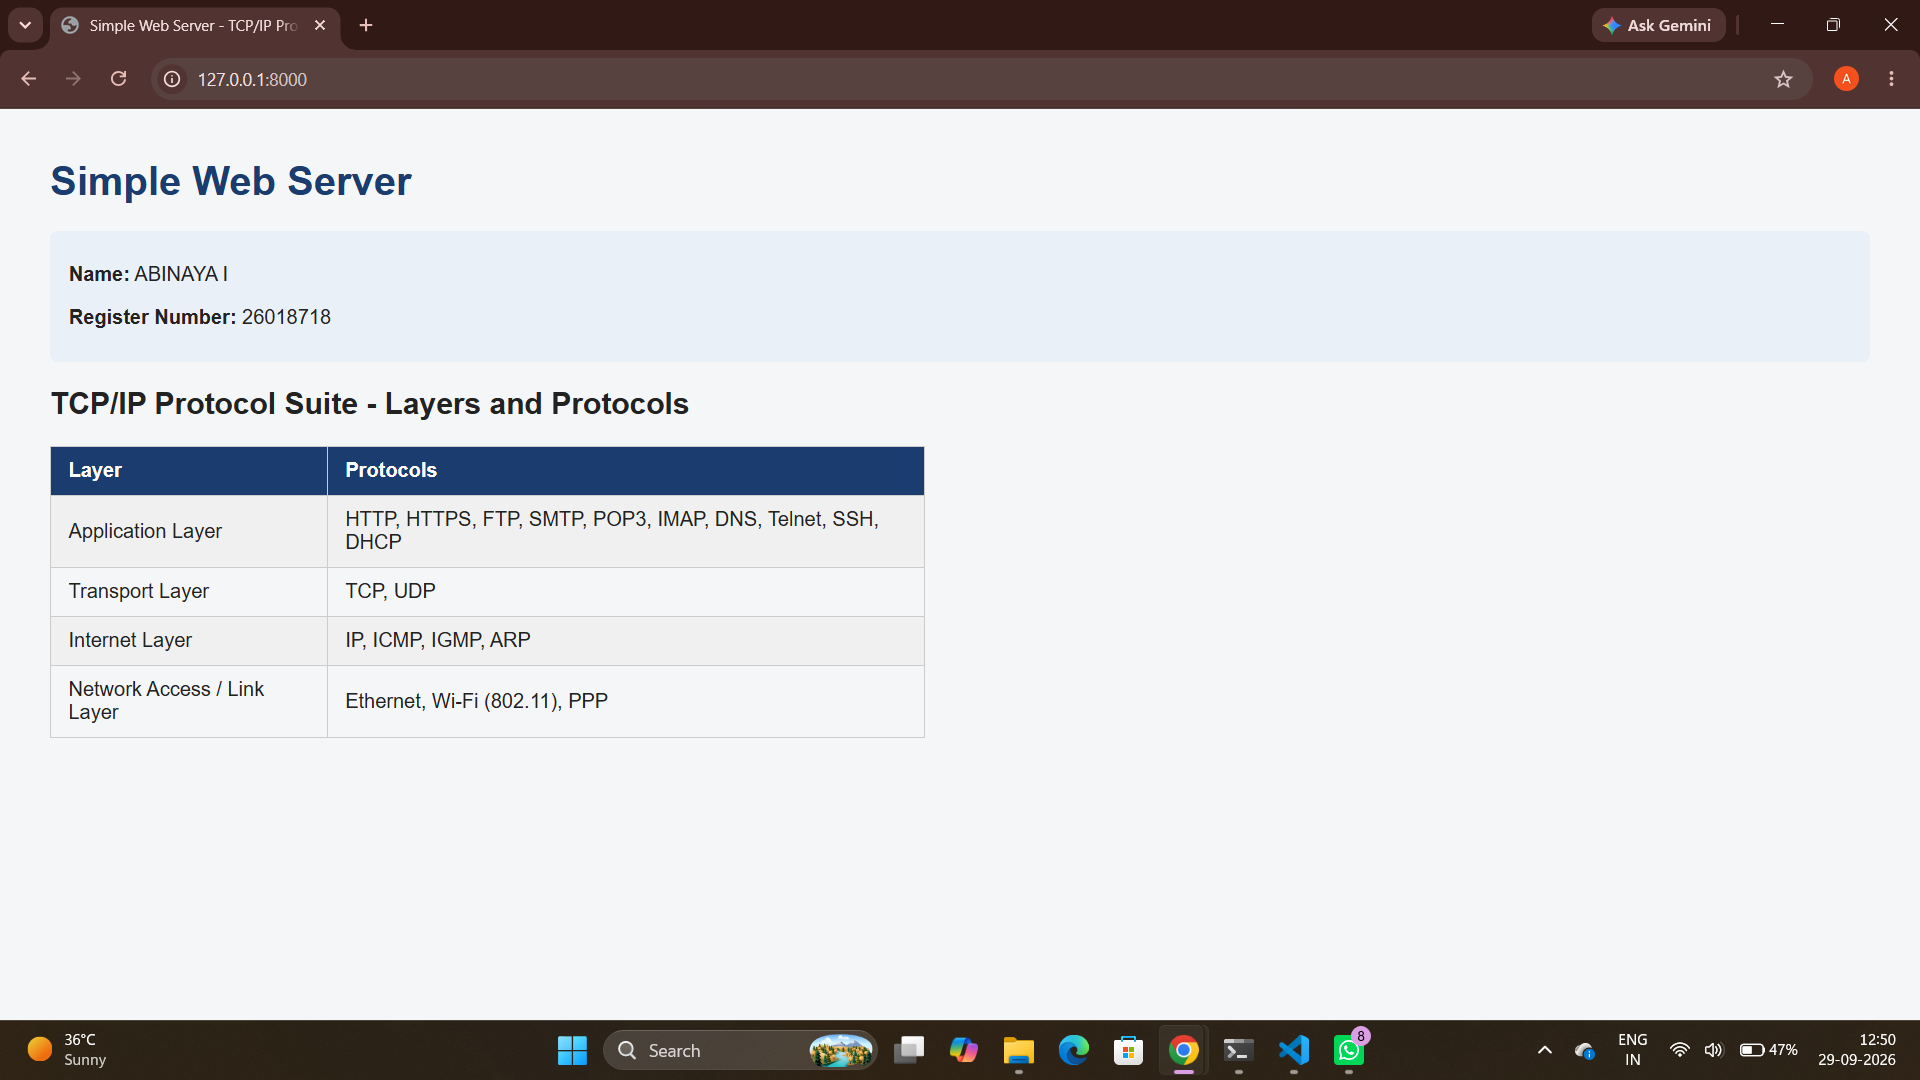
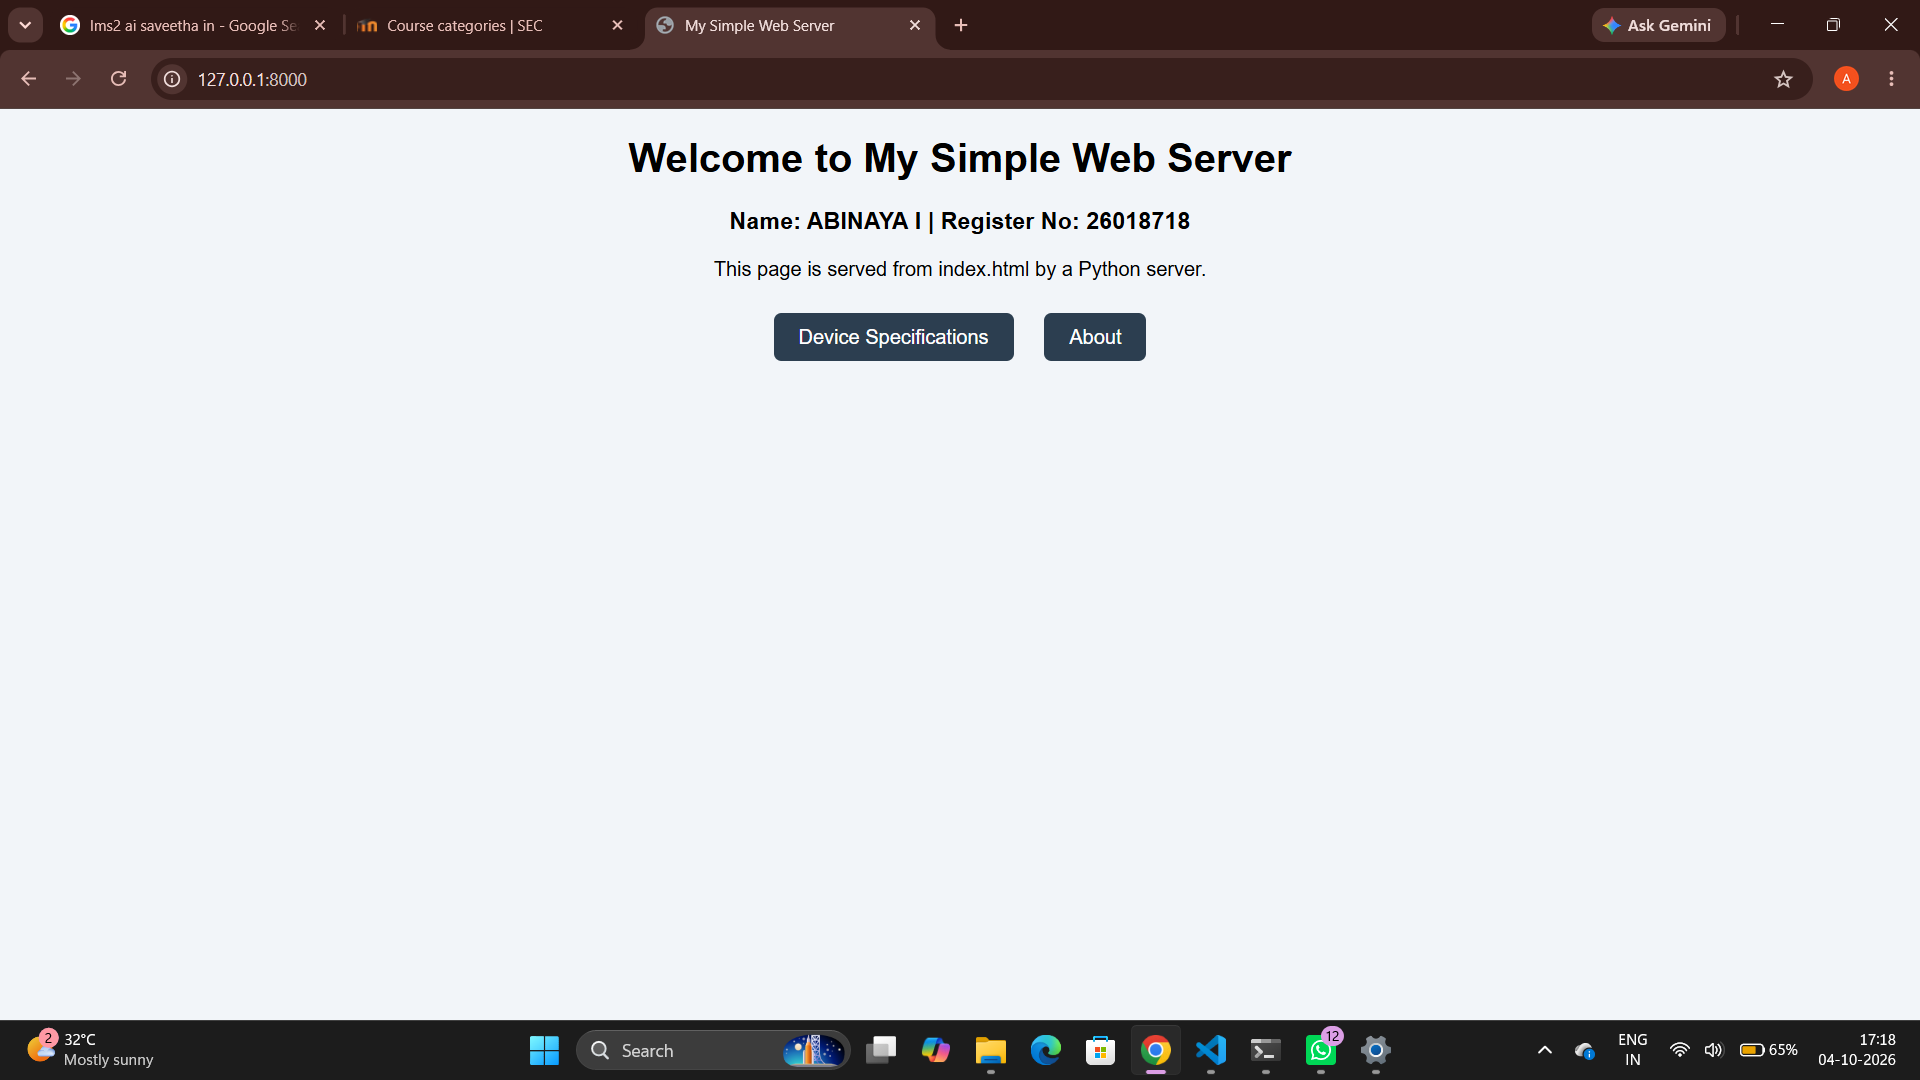
EX01 simple webserver

diff --git a/index.html b/index.html
@@ -1,32 +1,18 @@
 <!DOCTYPE html>
-<html lang="en">
+<html>
 <head>
-  <meta charset="UTF-8">
-  <title>Simple Web Server - TCP/IP Protocol Suite</title>
+  <meta charset="utf-8">
+  <title>My Simple Web Server</title>
   <style>
-    body { font-family: Arial, sans-serif; margin: 40px; background: #f4f6f8; color: #222; }
-    h1 { color: #1a3c6e; }
-    .info { background: #eaf0f8; padding: 10px 15px; border-radius: 6px; margin-bottom: 20px; }
-    table { border-collapse: collapse; width: 100%; max-width: 700px; }
-    th, td { border: 1px solid #ccc; padding: 10px 14px; text-align: left; }
-    th { background: #1a3c6e; color: white; }
-    tr:nth-child(even) { background: #f0f0f0; }
+    body { font-family: Arial, sans-serif; text-align: center; background: #f2f5f9; }
+    a { display: inline-block; margin: 10px; padding: 10px 20px; background: #2c3e50; color: #fff; text-decoration: none; border-radius: 6px; }
   </style>
 </head>
 <body>
-  <h1>Simple Web Server</h1>
-  <div class="info">
-    <p><strong>Name:</strong> ABINAYA I</p>
-    <p><strong>Register Number:</strong> 26018718</p>
-  </div>
-
-  <h2>TCP/IP Protocol Suite - Layers and Protocols</h2>
-  <table>
-    <tr><th>Layer</th><th>Protocols</th></tr>
-    <tr><td>Application Layer</td><td>HTTP, HTTPS, FTP, SMTP, POP3, IMAP, DNS, Telnet, SSH, DHCP</td></tr>
-    <tr><td>Transport Layer</td><td>TCP, UDP</td></tr>
-    <tr><td>Internet Layer</td><td>IP, ICMP, IGMP, ARP</td></tr>
-    <tr><td>Network Access / Link Layer</td><td>Ethernet, Wi-Fi (802.11), PPP</td></tr>
-  </table>
+  <h1>Welcome to My Simple Web Server</h1>
+  <h3>Name: ABINAYA I | Register No: 26018718</h3>
+  <p>This page is served from index.html by a Python server.</p>
+  <a href="/specs">Device Specifications</a>
+  <a href="/about.html">About</a>
 </body>
 </html>

diff --git a/About.html b/About.html
@@ -1,0 +1,9 @@
+<!DOCTYPE html>
+<html>
+<head><meta charset="utf-8"><title>About</title></head>
+<body style="font-family: Arial, sans-serif; text-align: center;">
+  <h1>About</h1>
+  <p>A simple web server built with Python's http.server module.</p>
+  <a href="/">Back to Home</a>
+</body>
+</html>

diff --git a/server.py b/server.py
@@ -1,27 +1,66 @@
-"""
-Simple Web Server
-Serves an HTML page listing the TCP/IP Protocol Suite.
-Runs on 127.0.0.1:8000
-"""
-
-from http.server import HTTPServer, SimpleHTTPRequestHandler
+from http.server import HTTPServer, BaseHTTPRequestHandler
+import platform
+import socket
 import os
 
-HOST = "127.0.0.1"
-PORT = 8000
+NAME = "ABINAYA I"
+REG_NO = "26018718"
 
-class Handler(SimpleHTTPRequestHandler):
+def get_specs():
+    return {
+        "Device Name": socket.gethostname(),
+        "Operating System": f"{platform.system()} {platform.release()}",
+        "OS Version": platform.version(),
+        "Architecture": platform.machine(),
+        "Processor": platform.processor() or "Unknown",
+        "CPU Cores": os.cpu_count(),
+        "Python Version": platform.python_version(),
+    }
+
+def build_page():
+    rows = "".join(
+        f"<tr><th>{k}</th><td>{v}</td></tr>" for k, v in get_specs().items()
+    )
+    return f"""<!DOCTYPE html>
+<html>
+<head>
+  <meta charset="utf-8">
+  <title>Device Specifications</title>
+  <style>
+    body {{ font-family: Arial, sans-serif; background: #f2f5f9; text-align: center; }}
+    table {{ margin: 30px auto; border-collapse: collapse; background: #fff; }}
+    th, td {{ border: 1px solid #ccc; padding: 10px 20px; text-align: left; }}
+    th {{ background: #2c3e50; color: #fff; }}
+  </style>
+</head>
+<body>
+  <h1>Laptop Device Specifications</h1>
+  <h3>Name: {NAME} | Register No: {REG_NO}</h3>
+  <table>{rows}</table>
+</body>
+</html>"""
+
+class MyHandler(BaseHTTPRequestHandler):
+    def send_html(self, content, status=200):
+        self.send_response(status)
+        self.send_header("Content-Type", "text/html; charset=utf-8")
+        self.end_headers()
+        self.wfile.write(content.encode("utf-8"))
+
     def do_GET(self):
-        if self.path == "/" or self.path == "":
-            self.path = "/index.html"
-        return super().do_GET()
+        print("Request:", self.path)
+        if self.path == "/specs":
+            self.send_html(build_page())
+            return
+        name = "index.html" if self.path == "/" else self.path.lstrip("/")
+        name = os.path.basename(name)
+        if name.endswith(".html") and os.path.exists(name):
+            with open(name, encoding="utf-8") as f:
+                self.send_html(f.read())
+        else:
+            self.send_html("<h1>404 - Page Not Found</h1>", 404)
 
-if __name__ == "__main__":
-    os.chdir(os.path.dirname(os.path.abspath(__file__)))
-    server = HTTPServer((HOST, PORT), Handler)
-    print(f"Serving on http://{HOST}:{PORT}  (Press Ctrl+C to stop)")
-    try:
-        server.serve_forever()
-    except KeyboardInterrupt:
-        print("\nServer stopped.")
-        server.server_close()
+server_address = ("", 8000)
+httpd = HTTPServer(server_address, MyHandler)
+print("My webserver is running on http://127.0.0.1:8000 ...")
+httpd.serve_forever()

diff --git a/README.md b/README.md
@@ -1,6 +1,6 @@
 # SImpleWEBSever
 # EX01 Developing a Simple Webserver
-## Date:29.09.2026
+## Date:04.10.2026
 
 ## AIM:
 To develop a simple webserver to serve html pages and display the Device Specifications of your Laptop.
@@ -37,37 +37,78 @@ Start the server script and check for errors.
 Open a browser and navigate to http://127.0.0.1:8000 (or the assigned port).
 
 ## PROGRAM:
-"""
-Simple Web Server
-Serves an HTML page listing the TCP/IP Protocol Suite.
-Runs on 127.0.0.1:8000
-"""
-
-from http.server import HTTPServer, SimpleHTTPRequestHandler
+from http.server import HTTPServer, BaseHTTPRequestHandler
+import platform
+import socket
 import os
 
-HOST = "127.0.0.1"
-PORT = 8000
+NAME = "ABINAYA I"
+REG_NO = "26018718"
 
-class Handler(SimpleHTTPRequestHandler):
+def get_specs():
+    return {
+        "Device Name": socket.gethostname(),
+        "Operating System": f"{platform.system()} {platform.release()}",
+        "OS Version": platform.version(),
+        "Architecture": platform.machine(),
+        "Processor": platform.processor() or "Unknown",
+        "CPU Cores": os.cpu_count(),
+        "Python Version": platform.python_version(),
+    }
+
+def build_page():
+    rows = "".join(
+        f"<tr><th>{k}</th><td>{v}</td></tr>" for k, v in get_specs().items()
+    )
+    return f"""<!DOCTYPE html>
+<html>
+<head>
+  <meta charset="utf-8">
+  <title>Device Specifications</title>
+  <style>
+    body {{ font-family: Arial, sans-serif; background: #f2f5f9; text-align: center; }}
+    table {{ margin: 30px auto; border-collapse: collapse; background: #fff; }}
+    th, td {{ border: 1px solid #ccc; padding: 10px 20px; text-align: left; }}
+    th {{ background: #2c3e50; color: #fff; }}
+  </style>
+</head>
+<body>
+  <h1>Laptop Device Specifications</h1>
+  <h3>Name: {NAME} | Register No: {REG_NO}</h3>
+  <table>{rows}</table>
+</body>
+</html>"""
+
+class MyHandler(BaseHTTPRequestHandler):
+    def send_html(self, content, status=200):
+        self.send_response(status)
+        self.send_header("Content-Type", "text/html; charset=utf-8")
+        self.end_headers()
+        self.wfile.write(content.encode("utf-8"))
+
     def do_GET(self):
-        if self.path == "/" or self.path == "":
-            self.path = "/index.html"
-        return super().do_GET()
+        print("Request:", self.path)
+        if self.path == "/specs":
+            self.send_html(build_page())
+            return
+        name = "index.html" if self.path == "/" else self.path.lstrip("/")
+        name = os.path.basename(name)
+        if name.endswith(".html") and os.path.exists(name):
+            with open(name, encoding="utf-8") as f:
+                self.send_html(f.read())
+        else:
+            self.send_html("<h1>404 - Page Not Found</h1>", 404)
 
-if __name__ == "__main__":
-    os.chdir(os.path.dirname(os.path.abspath(__file__)))
-    server = HTTPServer((HOST, PORT), Handler)
-    print(f"Serving on http://{HOST}:{PORT}  (Press Ctrl+C to stop)")
-    try:
-        server.serve_forever()
-    except KeyboardInterrupt:
-        print("\nServer stopped.")
-        server.server_close()
+server_address = ("", 8000)
+httpd = HTTPServer(server_address, MyHandler)
+print("My webserver is running on http://127.0.0.1:8000 ...")
+httpd.serve_forever()
+        
 
 ## OUTPUT:
-![alt text](output.png)
-![alt text](<output program.png>)
+![alt text](output.png):
+![alt text](output1.png)
+![alt text](terminalcode.png)
 
 
 ## RESULT:
